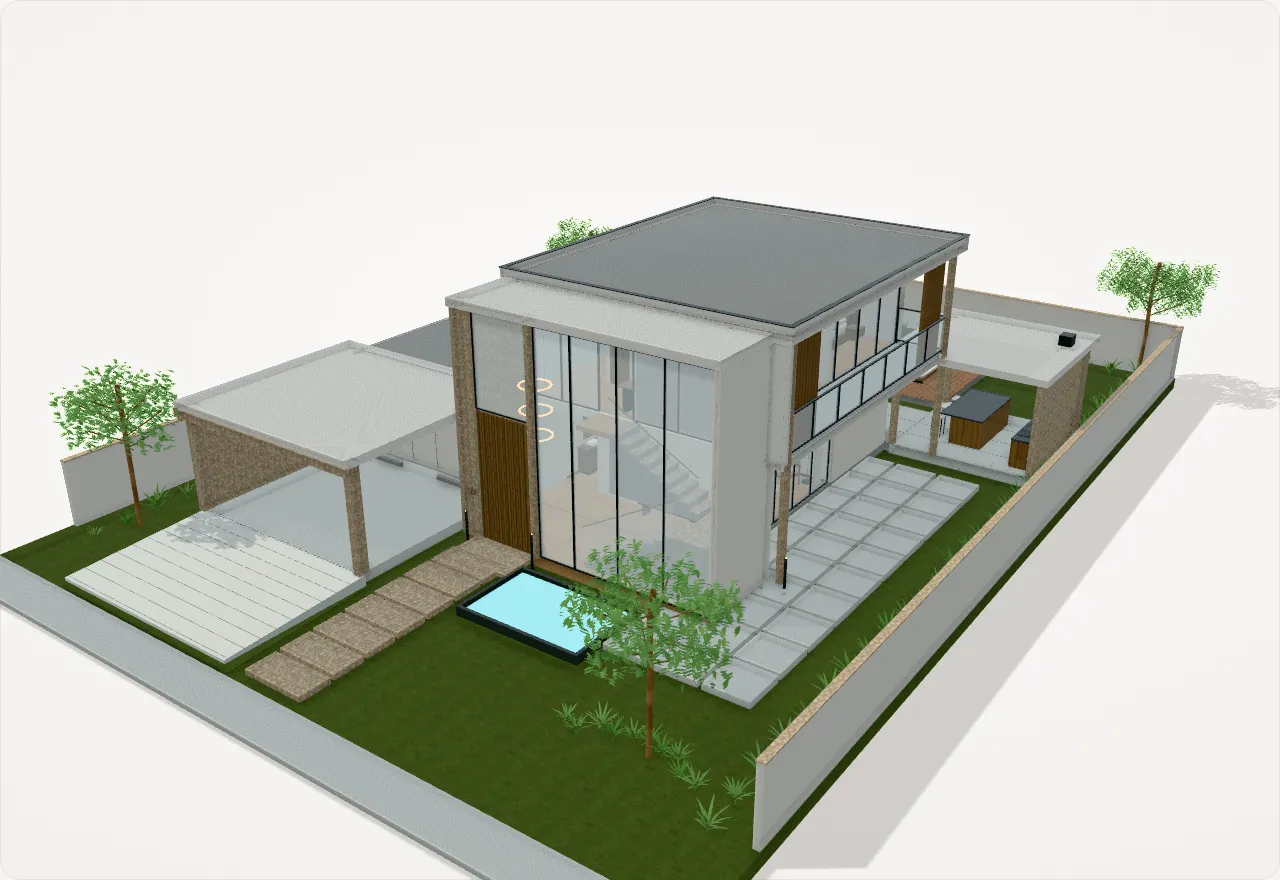
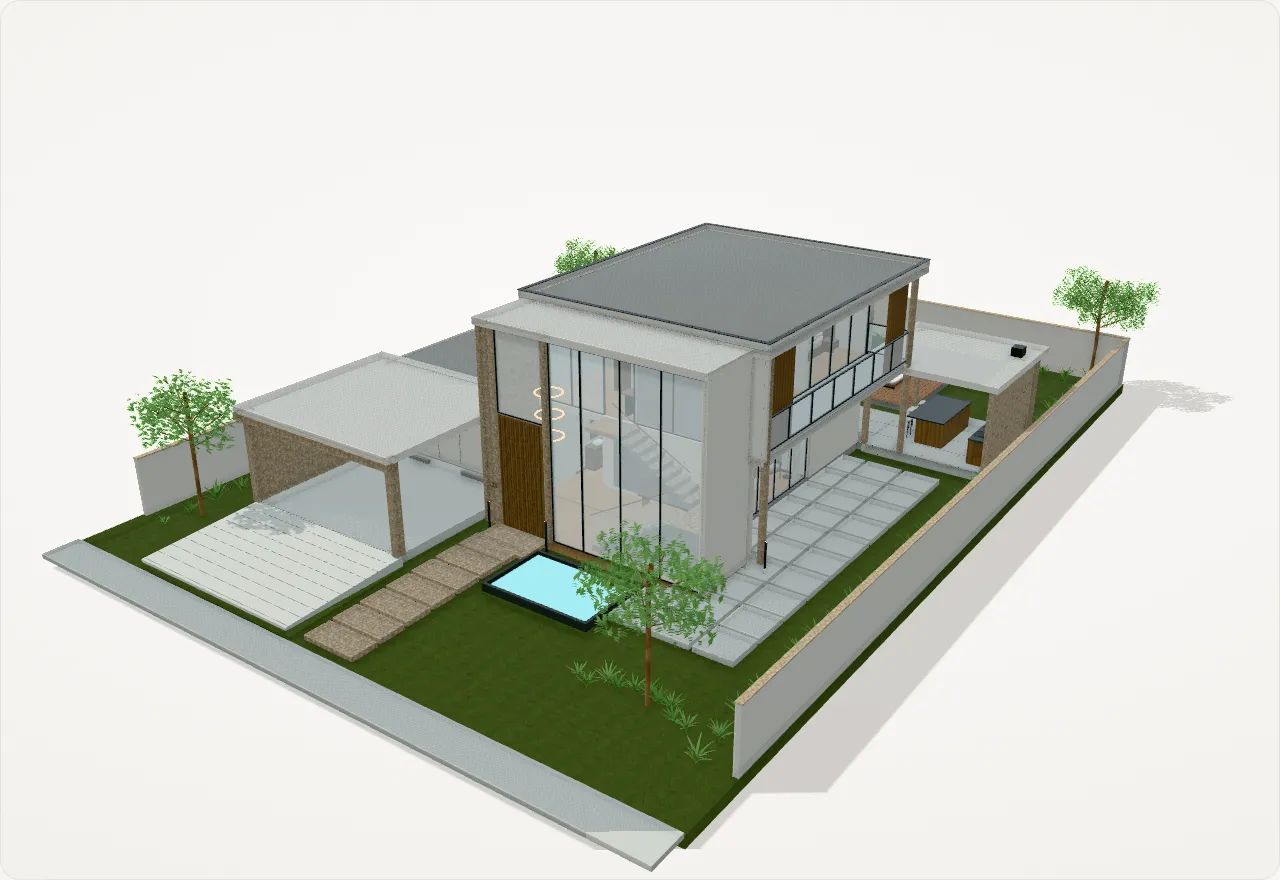
Hero: casa 3D inteira no quadro de novo, e visível na primeira tela do celular
Com a faixa de demonstração, a hero ficou mais baixa e a casa passou a
cortar na direita; o enquadramento volta a ter folga. No celular, menos
espaço acima e 3D mais baixo para a casa aparecer sem rolar.

diff --git a/src/app/page.tsx b/src/app/page.tsx
@@ -37,7 +37,7 @@ export default function Home() {
       {/* ——— Hero 40/60 ——— */}
       <section className="relative overflow-hidden pt-[var(--topo)]">
         <div className="mx-auto grid max-w-[1400px] items-center lg:min-h-[calc(100svh-var(--topo))] lg:grid-cols-[minmax(0,0.4fr)_minmax(0,0.6fr)]">
-          <div className="px-5 pb-6 pt-10 md:px-8 lg:py-16 lg:pl-12 lg:pr-4">
+          <div className="px-5 pb-0 pt-6 md:px-8 md:pt-10 lg:py-16 lg:pl-12 lg:pr-4">
             <Reveal>
               <p className="inline-flex items-center gap-2 rounded-full bg-white px-3 py-1.5 text-[13px] font-medium text-tinta-2 shadow-[0_0_0_1px_var(--color-linha)]">
                 <span className="size-1.5 rounded-full bg-acento" aria-hidden />
@@ -66,7 +66,7 @@ export default function Home() {
             </Reveal>
           </div>
 
-          <div className="relative h-[62svh] min-h-[380px] lg:h-[calc(100svh-var(--topo))] lg:max-h-[860px]">
+          <div className="relative h-[52svh] min-h-[360px] lg:h-[calc(100svh-var(--topo))] lg:max-h-[860px]">
             <Property3DViewer
               modelo="casa"
               nome="Casa Alameda"

diff --git a/src/three/modelos.ts b/src/three/modelos.ts
@@ -85,7 +85,7 @@ export const MODELOS: Record<string, ConfigModelo> = {
       az: 0.62,
       polar: 1.16,
       dist: 30,
-      largura: { paisagem: 19, retrato: 14, estreito: 16 },
+      largura: { paisagem: 21.5, retrato: 14, estreito: 16 },
     },
     limites: {
       distMin: 3,
